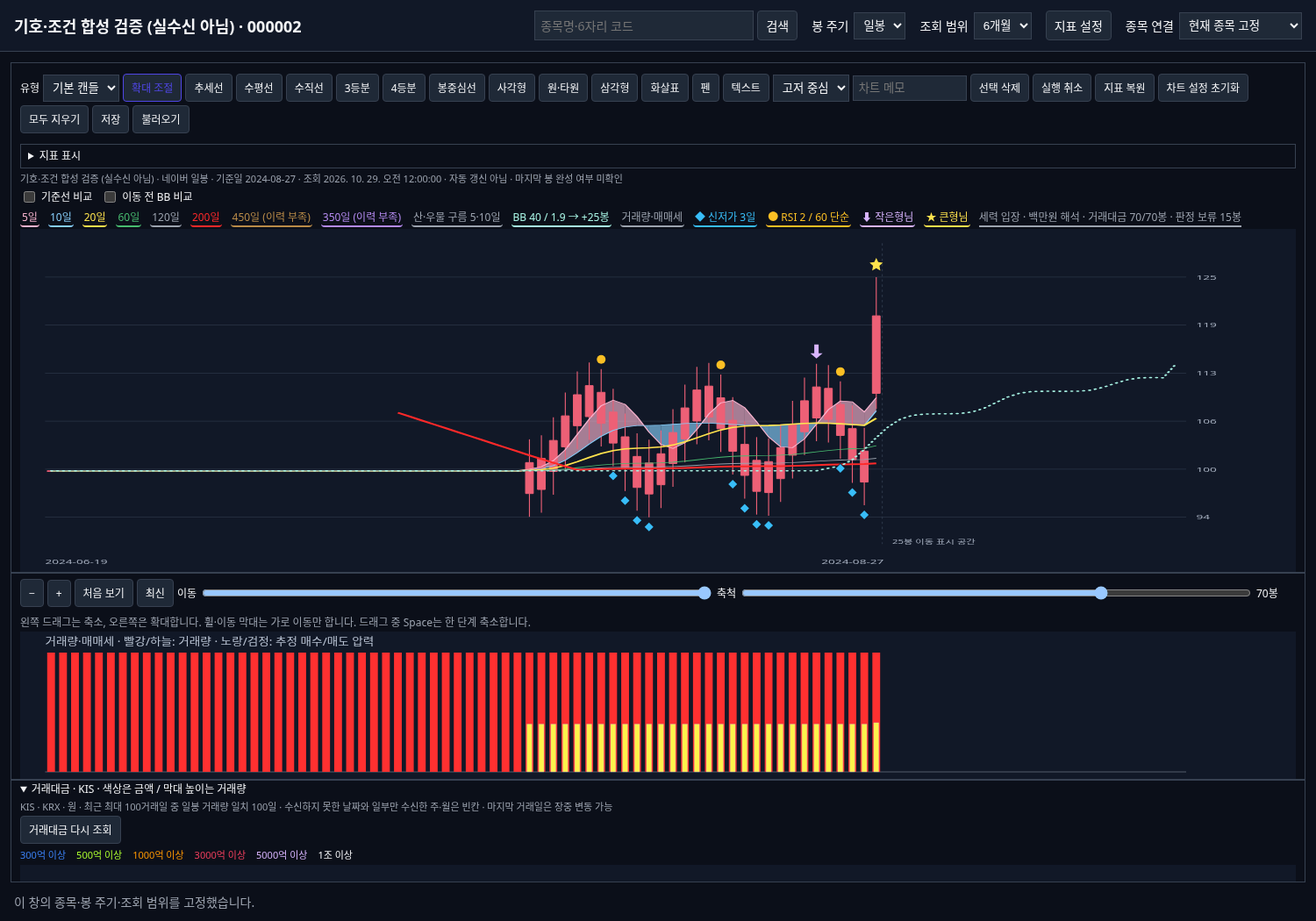
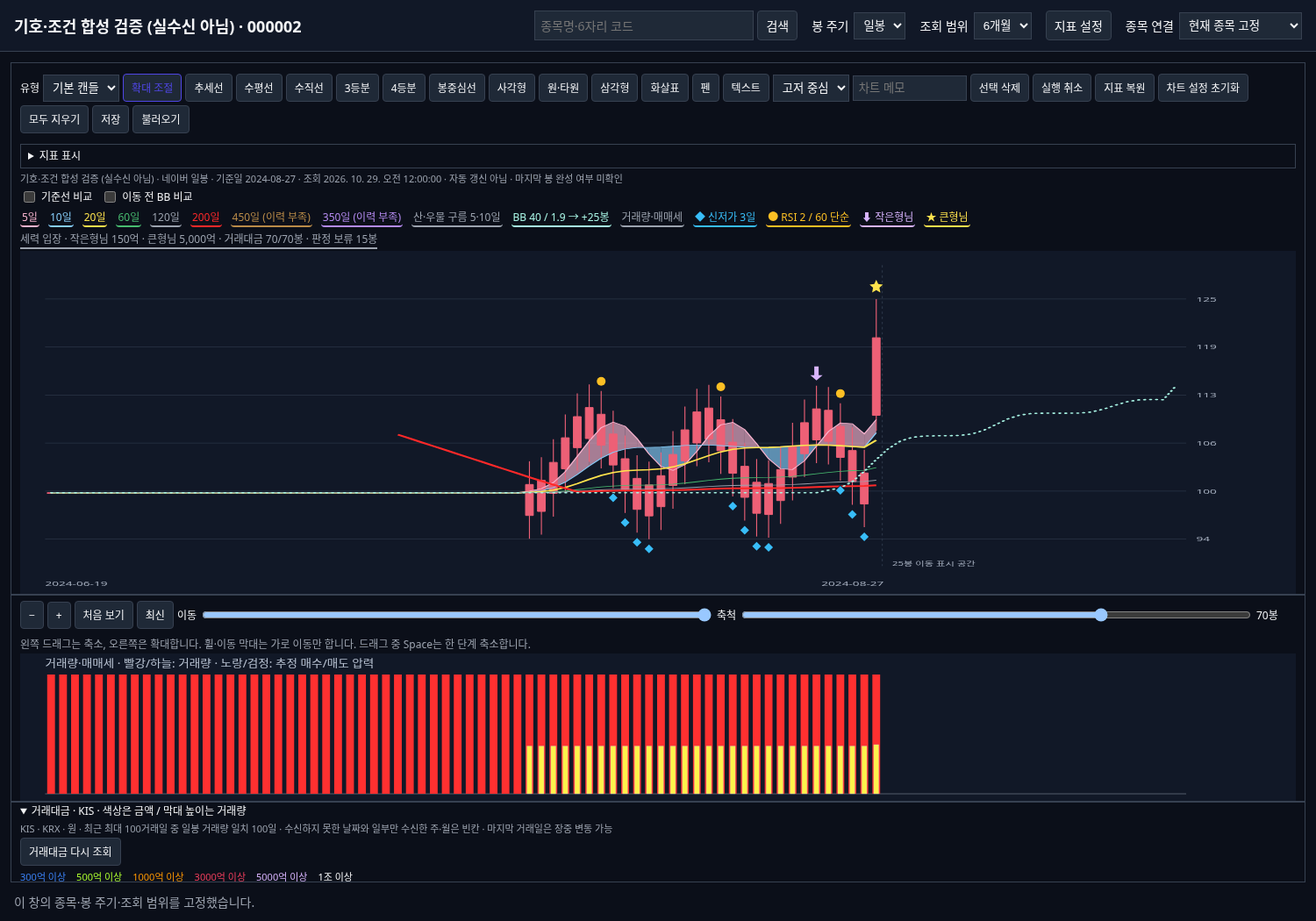
fix(chart): 형님 신호 거래대금 기준을 억원으로 확정

diff --git a/chart.html b/chart.html
@@ -1,4 +1,4 @@
 <!doctype html><html lang="ko"><head><meta charset="utf-8"><meta name="viewport" content="width=device-width,initial-scale=1"><title>상세 차트</title>
 <style>
 :root{color-scheme:dark;--sb-bg:#0b0f19;--sb-panel:#111827;--sb-surface:#1f2937;--sb-text-1:#f3f4f6;--sb-text-2:#9ca3af;--sb-border:#374151;--sb-accent:#4f46e5;--sb-warn:#f59e0b;--sb-overlay:rgba(0,0,0,.6)}*{box-sizing:border-box}body{margin:0;background:var(--sb-bg);color:var(--sb-text-1);font:14px system-ui,sans-serif;height:100vh;display:flex;flex-direction:column}header{display:flex;gap:16px;align-items:center;flex-wrap:wrap;padding:12px 16px;border-bottom:1px solid var(--sb-border);background:var(--sb-panel)}h1{font-size:18px;margin:0;margin-right:auto}label{display:flex;align-items:center;gap:6px}select{background:var(--sb-surface);color:inherit;border:1px solid var(--sb-border);padding:6px}#chartViewport{flex:1;min-height:0;overflow:auto;margin:12px;border:1px solid var(--sb-border)}.sb-chart-pending{height:100%;display:grid;place-content:center;text-align:center;color:var(--sb-text-2);gap:8px}#chartStatus{padding:0 16px 12px;color:var(--sb-text-2)}
-</style><link rel="stylesheet" href="src/chart/chart.css"></head><body class="sb-chart-window"><header><h1 id="chartName">상세 차트</h1><form id="chartStockSearchForm" class="sb-chart-search" role="search"><label class="sb-chart-search-label" for="chartStockSearch">종목 검색</label><div class="sb-chart-search-row"><input id="chartStockSearch" class="sb-input" type="search" maxlength="40" placeholder="종목명·6자리 코드" role="combobox" aria-autocomplete="list" aria-expanded="false" aria-controls="chartStockResults" autocomplete="off"><button type="submit" class="sb-btn">검색</button></div><div id="chartStockSearchPanel" class="sb-chart-search-panel" hidden><p id="chartStockSearchStatus" role="status"></p><div id="chartStockResults" role="listbox" aria-label="종목 검색 결과"></div></div></form><label>봉 주기 <select id="chartCycle"><option value="day">일봉</option><option value="week">주봉</option><option value="month">월봉</option><option value="year">연봉</option></select></label><label>조회 범위 <select id="chartPeriod"><option value="1m">1개월</option><option value="3m">3개월</option><option value="6m">6개월</option><option value="1y">1년</option><option value="all">전체</option></select></label><button type="button" class="sb-btn" id="chartIndicatorSettings">지표 설정</button><label>종목 연결 <select id="chartFollow"><option value="follow">선택 종목 따라가기</option><option value="pin">현재 종목 고정</option></select></label></header><main id="chartViewport" data-chart-host><div class="sb-chart-pending"><strong>차트 모듈 연결 대기</strong><span>종목·기간은 유지되며 차트 원본 연결 후 표시됩니다.</span></div></main><div id="chartStatus" role="status"></div><dialog id="chartSettings" class="sb-modal sb-modal--s"><form method="dialog" id="chartSettingsForm"><div class="sb-modal__head"><strong>지표 조건</strong><button type="button" class="sb-btn" id="chartSettingsClose">닫기</button></div><div class="sb-modal__body"><label>종가 단순 이평 기간<input class="sb-input" id="chartMAPeriods" placeholder="예: 4,12,24,46,73"></label><p>쉼표로 구분합니다. 단위는 선택한 봉 주기입니다.</p><label id="chartCloudFields">산·우물 구름 기간<input class="sb-input" id="chartCloudPeriods" placeholder="예: 1,4"></label><fieldset id="chartBBFields"><legend>BB 상한선</legend><label>기간<input id="chartBBPeriod" class="sb-input" type="number" min="2" max="500"></label><label>배수<input id="chartBBMultiplier" class="sb-input" type="number" step="0.1" min="0" max="10"></label><label>이동 봉 수<input id="chartBBShift" class="sb-input" type="number" min="0" max="120"></label></fieldset><fieldset id="chartOBVFields"><legend>OBV 시그널</legend><label>기간<input id="chartOBVPeriod" class="sb-input" type="number" min="1" max="500"></label><label>평균 방식<select id="chartOBVMethod" class="sb-input"><option value="sma">단순</option><option value="ema">지수</option></select></label></fieldset><fieldset id="chartSignalFields"><legend>봉 신호</legend><p>RSI는 기간·하단값을 입력하고 계산방식을 선택하면 표시합니다.</p><label id="chartNewLowFields">신저가 기간<input id="chartNewLowPeriod" class="sb-input" type="number" min="1" max="1200" placeholder="미설정"></label><label>RSI 기간<input id="chartRSIPeriod" class="sb-input" type="number" min="1" max="500" placeholder="미설정"></label><label>RSI 하단값<input id="chartRSILevel" class="sb-input" type="number" min="0" max="100" step="any" placeholder="미설정"></label><label>RSI 계산방식<select id="chartRSIMethod" class="sb-input"><option value="">선택</option><option value="simple">단순</option><option value="wilder">Wilder</option></select></label><p>RSI는 하단값 아래로 내려간 봉에만 신호를 표시합니다. 등락이 모두 0이면 RSI 50을 사용합니다.</p></fieldset><fieldset id="chartEntryFields"><legend>세력 입장 · 일봉</legend><p>공통 가격 조건: 일목 9·26·52의 25봉 전 값, 종가 226일선, BB 20/2. 양봉이며 전일 종가 또는 당일 시가보다 2.5% 이상 상승해야 합니다.</p><p>작은형님: 거래량 2,000주·amount 150 이상. 큰형님: 70,000주·amount 5,000 이상이며, 3·2·1봉 전 226일선이 차례로 낮아져야 합니다. 큰형님은 최소 229봉이 필요합니다.</p><label>수식의 amount 단위<select id="chartEntryAmountUnit" class="sb-input"><option value="">확인 필요 · 규모 판정 보류</option><option value="million">백만원 · 작은형님 1.5억 / 큰형님 50억</option><option value="eok">억원 · 작은형님 150억 / 큰형님 5,000억</option></select></label><p>원본 단위는 미확인입니다. 선택한 해석으로 계산하며, 실제 거래대금이 없는 날짜는 판정하지 않습니다. 두 신호가 겹치면 큰형님만 표시합니다. 이 조건으로 실제 매매 주체가 확인되지는 않습니다.</p></fieldset><p id="chartSettingsError" role="status"></p></div><div class="sb-modal__foot"><button type="button" class="sb-btn" id="chartSettingsReset">주기 기본값</button><button type="submit" class="sb-btn">적용</button></div></form></dialog><script src="src/chart/series.js"></script><script src="src/chart/renderer.js"></script><script src="src/chart/interaction.js"></script><script src="src/chart/resize.js"></script><script src="src/chart/client.js"></script><script src="src/chart/detail.js"></script></body></html>
+</style><link rel="stylesheet" href="src/chart/chart.css"></head><body class="sb-chart-window"><header><h1 id="chartName">상세 차트</h1><form id="chartStockSearchForm" class="sb-chart-search" role="search"><label class="sb-chart-search-label" for="chartStockSearch">종목 검색</label><div class="sb-chart-search-row"><input id="chartStockSearch" class="sb-input" type="search" maxlength="40" placeholder="종목명·6자리 코드" role="combobox" aria-autocomplete="list" aria-expanded="false" aria-controls="chartStockResults" autocomplete="off"><button type="submit" class="sb-btn">검색</button></div><div id="chartStockSearchPanel" class="sb-chart-search-panel" hidden><p id="chartStockSearchStatus" role="status"></p><div id="chartStockResults" role="listbox" aria-label="종목 검색 결과"></div></div></form><label>봉 주기 <select id="chartCycle"><option value="day">일봉</option><option value="week">주봉</option><option value="month">월봉</option><option value="year">연봉</option></select></label><label>조회 범위 <select id="chartPeriod"><option value="1m">1개월</option><option value="3m">3개월</option><option value="6m">6개월</option><option value="1y">1년</option><option value="all">전체</option></select></label><button type="button" class="sb-btn" id="chartIndicatorSettings">지표 설정</button><label>종목 연결 <select id="chartFollow"><option value="follow">선택 종목 따라가기</option><option value="pin">현재 종목 고정</option></select></label></header><main id="chartViewport" data-chart-host><div class="sb-chart-pending"><strong>차트 모듈 연결 대기</strong><span>종목·기간은 유지되며 차트 원본 연결 후 표시됩니다.</span></div></main><div id="chartStatus" role="status"></div><dialog id="chartSettings" class="sb-modal sb-modal--s"><form method="dialog" id="chartSettingsForm"><div class="sb-modal__head"><strong>지표 조건</strong><button type="button" class="sb-btn" id="chartSettingsClose">닫기</button></div><div class="sb-modal__body"><label>종가 단순 이평 기간<input class="sb-input" id="chartMAPeriods" placeholder="예: 4,12,24,46,73"></label><p>쉼표로 구분합니다. 단위는 선택한 봉 주기입니다.</p><label id="chartCloudFields">산·우물 구름 기간<input class="sb-input" id="chartCloudPeriods" placeholder="예: 1,4"></label><fieldset id="chartBBFields"><legend>BB 상한선</legend><label>기간<input id="chartBBPeriod" class="sb-input" type="number" min="2" max="500"></label><label>배수<input id="chartBBMultiplier" class="sb-input" type="number" step="0.1" min="0" max="10"></label><label>이동 봉 수<input id="chartBBShift" class="sb-input" type="number" min="0" max="120"></label></fieldset><fieldset id="chartOBVFields"><legend>OBV 시그널</legend><label>기간<input id="chartOBVPeriod" class="sb-input" type="number" min="1" max="500"></label><label>평균 방식<select id="chartOBVMethod" class="sb-input"><option value="sma">단순</option><option value="ema">지수</option></select></label></fieldset><fieldset id="chartSignalFields"><legend>봉 신호</legend><p>RSI는 기간·하단값을 입력하고 계산방식을 선택하면 표시합니다.</p><label id="chartNewLowFields">신저가 기간<input id="chartNewLowPeriod" class="sb-input" type="number" min="1" max="1200" placeholder="미설정"></label><label>RSI 기간<input id="chartRSIPeriod" class="sb-input" type="number" min="1" max="500" placeholder="미설정"></label><label>RSI 하단값<input id="chartRSILevel" class="sb-input" type="number" min="0" max="100" step="any" placeholder="미설정"></label><label>RSI 계산방식<select id="chartRSIMethod" class="sb-input"><option value="">선택</option><option value="simple">단순</option><option value="wilder">Wilder</option></select></label><p>RSI는 하단값 아래로 내려간 봉에만 신호를 표시합니다. 등락이 모두 0이면 RSI 50을 사용합니다.</p></fieldset><fieldset id="chartEntryFields"><legend>세력 입장 · 일봉</legend><p>공통 가격 조건: 일목 9·26·52의 25봉 전 값, 종가 226일선, BB 20/2. 양봉이며 전일 종가 또는 당일 시가보다 2.5% 이상 상승해야 합니다.</p><p>작은형님: 거래량 2,000주·amount 150 이상. 큰형님: 70,000주·amount 5,000 이상이며, 3·2·1봉 전 226일선이 차례로 낮아져야 합니다. 큰형님은 최소 229봉이 필요합니다.</p><p>거래대금 기준은 작은형님 <strong>150억원</strong>, 큰형님 <strong>5,000억원</strong>입니다. 실제 거래대금이 없는 날짜는 판정하지 않습니다. 두 신호가 겹치면 큰형님만 표시합니다. 이 조건으로 실제 매매 주체가 확인되지는 않습니다.</p></fieldset><p id="chartSettingsError" role="status"></p></div><div class="sb-modal__foot"><button type="button" class="sb-btn" id="chartSettingsReset">주기 기본값</button><button type="submit" class="sb-btn">적용</button></div></form></dialog><script src="src/chart/series.js"></script><script src="src/chart/renderer.js"></script><script src="src/chart/interaction.js"></script><script src="src/chart/resize.js"></script><script src="src/chart/client.js"></script><script src="src/chart/detail.js"></script></body></html>

diff --git a/src/chart/detail.js b/src/chart/detail.js
@@ -1,6 +1,6 @@
 (() => {
  const api=window.stockBookChart,host=document.getElementById('chartViewport'),cycle=document.getElementById('chartCycle'),range=document.getElementById('chartPeriod'),follow=document.getElementById('chartFollow'),status=document.getElementById('chartStatus'),dialog=document.getElementById('chartSettings');
- if([host,cycle,range,follow,status,dialog,...['chartName','chartMAPeriods','chartCloudFields','chartCloudPeriods','chartBBFields','chartBBPeriod','chartBBMultiplier','chartBBShift','chartOBVFields','chartOBVPeriod','chartOBVMethod','chartSignalFields','chartNewLowFields','chartNewLowPeriod','chartRSIPeriod','chartRSILevel','chartRSIMethod','chartEntryFields','chartEntryAmountUnit','chartSettingsError','chartIndicatorSettings','chartSettingsClose','chartSettingsReset','chartSettingsForm'].map(id=>document.getElementById(id))].some(element=>!element))return;
+ if([host,cycle,range,follow,status,dialog,...['chartName','chartMAPeriods','chartCloudFields','chartCloudPeriods','chartBBFields','chartBBPeriod','chartBBMultiplier','chartBBShift','chartOBVFields','chartOBVPeriod','chartOBVMethod','chartSignalFields','chartNewLowFields','chartNewLowPeriod','chartRSIPeriod','chartRSILevel','chartRSIMethod','chartEntryFields','chartSettingsError','chartIndicatorSettings','chartSettingsClose','chartSettingsReset','chartSettingsForm'].map(id=>document.getElementById(id))].some(element=>!element))return;
  let current=null,sequence=0,settings={};try{settings=JSON.parse(localStorage.getItem('stockbook:chart:settings:v1'))||{};}catch{}
  if(typeof settings!=='object'||settings===null||Array.isArray(settings))settings={};
  async function context(value){
@@ -53,13 +53,13 @@
   document.addEventListener('pointerdown',event=>{if(!searchForm.contains(event.target))expanded(false);});
  }
  const field=id=>document.getElementById(id),optionalNumber=id=>field(id).value.trim()===''?null:Number(field(id).value),numbers=value=>value.split(/[,\s]+/).filter(Boolean).map(Number);
- function fill(values){field('chartMAPeriods').value=values.periods.join(',');field('chartCloudFields').hidden=!values.cloud;field('chartCloudPeriods').value=values.cloud?.join(',')||'';field('chartBBFields').hidden=current.barCycle!=='day';field('chartBBPeriod').value=values.bb.period;field('chartBBMultiplier').value=values.bb.multiplier;field('chartBBShift').value=values.bb.shift;field('chartOBVFields').hidden=current.barCycle!=='week';field('chartOBVPeriod').value=values.obv.period;field('chartOBVMethod').value=values.obv.method;field('chartSignalFields').hidden=!['day','week'].includes(current.barCycle);field('chartNewLowFields').hidden=current.barCycle!=='day';field('chartNewLowPeriod').value=values.signals.newLowPeriod??'';field('chartRSIPeriod').value=values.signals.rsiPeriod??'';field('chartRSILevel').value=values.signals.rsiLevel??'';field('chartRSIMethod').value=values.signals.rsiMethod??'';field('chartEntryFields').hidden=current.barCycle!=='day';field('chartEntryAmountUnit').value=values.signals.entryAmountUnit??'';field('chartSettingsError').textContent='';}
+ function fill(values){field('chartMAPeriods').value=values.periods.join(',');field('chartCloudFields').hidden=!values.cloud;field('chartCloudPeriods').value=values.cloud?.join(',')||'';field('chartBBFields').hidden=current.barCycle!=='day';field('chartBBPeriod').value=values.bb.period;field('chartBBMultiplier').value=values.bb.multiplier;field('chartBBShift').value=values.bb.shift;field('chartOBVFields').hidden=current.barCycle!=='week';field('chartOBVPeriod').value=values.obv.period;field('chartOBVMethod').value=values.obv.method;field('chartSignalFields').hidden=!['day','week'].includes(current.barCycle);field('chartNewLowFields').hidden=current.barCycle!=='day';field('chartNewLowPeriod').value=values.signals.newLowPeriod??'';field('chartRSIPeriod').value=values.signals.rsiPeriod??'';field('chartRSILevel').value=values.signals.rsiLevel??'';field('chartRSIMethod').value=values.signals.rsiMethod??'';field('chartEntryFields').hidden=current.barCycle!=='day';field('chartSettingsError').textContent='';}
  field('chartIndicatorSettings').addEventListener('click',()=>{if(!current)return;fill(window.StockBookChartSeries.indicatorSettings(current.barCycle,settings[current.barCycle]));dialog.showModal();});
  field('chartSettingsClose').addEventListener('click',()=>dialog.close());field('chartSettingsReset').addEventListener('click',()=>fill(window.StockBookChartSeries.indicatorSettings(current.barCycle)));
  field('chartSettingsForm').addEventListener('submit',event=>{
   event.preventDefault();if(!current)return;
   try{
-   const value=window.StockBookChartSeries.indicatorSettings(current.barCycle,{periods:numbers(field('chartMAPeriods').value),cloud:current.barCycle==='day'||current.barCycle==='week'?numbers(field('chartCloudPeriods').value):null,bb:{period:Number(field('chartBBPeriod').value),multiplier:Number(field('chartBBMultiplier').value),shift:Number(field('chartBBShift').value)},obv:{period:Number(field('chartOBVPeriod').value),method:field('chartOBVMethod').value},signals:{newLowPeriod:optionalNumber('chartNewLowPeriod'),rsiPeriod:optionalNumber('chartRSIPeriod'),rsiLevel:optionalNumber('chartRSILevel'),rsiMethod:field('chartRSIMethod').value||null,entryAmountUnit:field('chartEntryAmountUnit').value||null}});
+   const value=window.StockBookChartSeries.indicatorSettings(current.barCycle,{periods:numbers(field('chartMAPeriods').value),cloud:current.barCycle==='day'||current.barCycle==='week'?numbers(field('chartCloudPeriods').value):null,bb:{period:Number(field('chartBBPeriod').value),multiplier:Number(field('chartBBMultiplier').value),shift:Number(field('chartBBShift').value)},obv:{period:Number(field('chartOBVPeriod').value),method:field('chartOBVMethod').value},signals:{newLowPeriod:optionalNumber('chartNewLowPeriod'),rsiPeriod:optionalNumber('chartRSIPeriod'),rsiLevel:optionalNumber('chartRSILevel'),rsiMethod:field('chartRSIMethod').value||null}});
    window.StockBookCharts.controller(host)?.setSettings(value);settings[current.barCycle]=value;
    try{localStorage.setItem('stockbook:chart:settings:v1',JSON.stringify(settings));}catch{}dialog.close();
   }catch(error){field('chartSettingsError').textContent=error.message;}

diff --git a/src/chart/renderer.js b/src/chart/renderer.js
@@ -101,11 +101,11 @@ function render(all){
 }
 function chartSignals(){
  window.signalEvidence=null;signalRows=null;if(!config.panels.signals||(mode==='compact'&&barCycle!=='day'))return null;
- const key=mode+':'+JSON.stringify(signalSettings)+':'+entryAmountVersion;if(!signalCache.has(key)){const lows=mode==='compact'||signalSettings.newLowPeriod===null?all.map(()=>false):series.newLowSignals(all,signalSettings.newLowPeriod),rsi=mode==='compact'||signalSettings.rsiMethod===null?all.map(()=>null):series.rsiSeries(all,signalSettings.rsiPeriod,signalSettings.rsiMethod),oversold=mode==='compact'||signalSettings.rsiMethod===null?all.map(()=>false):series.crossdown(rsi,signalSettings.rsiLevel);const entry=barCycle==='day'?(entryCache??=series.entryTierSeries(all,tradingAmounts,signalSettings.entryAmountUnit==='million'?1000000:signalSettings.entryAmountUnit==='eok'?100000000:null)):null;signalCache.set(key,lows.map((newLow,i)=>({newLow,rsi:rsi[i],oversold:oversold[i],entrySmall:entry?.[i]?.small??null,entryBig:entry?.[i]?.big??null})));while(signalCache.size>8)signalCache.delete(signalCache.keys().next().value);}
+ const key=mode+':'+JSON.stringify(signalSettings)+':'+entryAmountVersion;if(!signalCache.has(key)){const lows=mode==='compact'||signalSettings.newLowPeriod===null?all.map(()=>false):series.newLowSignals(all,signalSettings.newLowPeriod),rsi=mode==='compact'||signalSettings.rsiMethod===null?all.map(()=>null):series.rsiSeries(all,signalSettings.rsiPeriod,signalSettings.rsiMethod),oversold=mode==='compact'||signalSettings.rsiMethod===null?all.map(()=>false):series.crossdown(rsi,signalSettings.rsiLevel);const entry=barCycle==='day'?(entryCache??=series.entryTierSeries(all,tradingAmounts)):null;signalCache.set(key,lows.map((newLow,i)=>({newLow,rsi:rsi[i],oversold:oversold[i],entrySmall:entry?.[i]?.small??null,entryBig:entry?.[i]?.big??null})));while(signalCache.size>8)signalCache.delete(signalCache.keys().next().value);}
  signalRows=signalCache.get(key).slice(offset,view.end);window.signalEvidence={...signalSettings,newLowDates:signalRows.flatMap((r,i)=>r.newLow?[all[offset+i].date]:[]),oversoldDates:signalRows.flatMap((r,i)=>r.oversold?[all[offset+i].date]:[]),entrySmallDates:signalRows.flatMap((r,i)=>r.entrySmall===true?[all[offset+i].date]:[]),entryBigDates:signalRows.flatMap((r,i)=>r.entryBig===true?[all[offset+i].date]:[]),entryAmountReceived:tradingAmounts.slice(offset,view.end).filter(v=>v!==null).length,entryWaiting:signalRows.filter(r=>r.entrySmall===null||r.entryBig===null).length};return signalRows;
 }
 function entryLegend(){
- if(barCycle!=='day')return '';const state=signalSettings.entryAmountUnit===null?'amount 단위 선택 필요':(signalSettings.entryAmountUnit==='million'?'백만원 해석':'억원 해석');
+ if(barCycle!=='day')return '';const state='작은형님 150억 · 큰형님 5,000억';
  if(mode==='compact')document.getElementById('notice').textContent+=` · 세력 입장: ${state} · 거래대금 ${window.signalEvidence.entryAmountReceived}/${visibleCount}봉`;
  return indicatorLabel('entry-small','⬇ 작은형님','var(--sb-chart-signal-entry-small)')+indicatorLabel('entry-big','★ 큰형님','var(--sb-chart-signal-entry-big)')+`<span class="sb-chart-entry-status">세력 입장 · ${state} · 거래대금 ${window.signalEvidence.entryAmountReceived}/${visibleCount}봉 · 판정 보류 ${window.signalEvidence.entryWaiting}봉</span>`;
 }
@@ -214,7 +214,6 @@ function renderInvestorPanel(){
  setView:(count,end=view.end)=>{const n=Math.max(1,Math.min(all.length,Math.round(count))),last=Math.max(n,Math.min(all.length,Math.round(end)));applyView(n,all.length>n?(last-n)/(all.length-n):view.position);},
  zoomTo:count=>applyView(count,view.position),scrollTo:position=>applyView(view.count,position),scrollBy:bars=>{const max=all.length-view.count;if(max)applyView(view.count,Math.max(0,Math.min(max,view.end-view.count+bars))/max);},resetView:()=>applyView(all.length-initialOffset,1),
  resetSettings:()=>{entryCache=null;investorDisplay='daily';signalSettings=series.indicatorSettings(barCycle).signals;obvSettings={period:9,method:'sma'};document.getElementById('obvPanel').open=false;const defaults=series.cycleConfig(barCycle);periods=mode==='compact'&&barCycle==='day'?[5,10,20,60]:defaults.periods;config.cloud=defaults.cloud;bbSettings={period:40,multiplier:1.9,shift:25};hiddenIndicators.clear();chartType=config.defaultType;view.count=all.length-initialOffset;view.end=all.length;view.position=1;for(const id of ['refs','original'])document.getElementById(id).checked=false;draw();},
- setEntryAmountUnit:unit=>{const next=series.indicatorSettings(barCycle,{signals:{...signalSettings,entryAmountUnit:unit}}).signals;if(next.entryAmountUnit!==signalSettings.entryAmountUnit){signalSettings=next;entryCache=null;draw();}},
  setSettings:values=>{const next=series.indicatorSettings(barCycle,values);periods=next.periods;config.cloud=next.cloud;bbSettings=next.bb;obvSettings=next.obv;signalSettings=next.signals;entryCache=null;futureCount=barCycle==='day'?bbSettings.shift:0;draw();}};
 }
 root.StockBookChartRenderer=Object.freeze({mount});

diff --git a/src/chart/series.js b/src/chart/series.js
@@ -61,7 +61,7 @@
   const offset=bars.findIndex(bar=>bar.date>=cutoff);return offset<0?Math.max(0,bars.length-1):offset;
  }
  function indicatorSettings(cycle,input={}){
-  const defaults=cycleConfig(cycle),periods=input.periods??defaults.periods,cloud=defaults.cloud?(input.cloud??defaults.cloud):null,bb={period:40,multiplier:1.9,shift:25,...input.bb},obv={period:9,method:'sma',...(cycle==='week'?input.obv:{})},signals=['day','week'].includes(cycle)?{newLowPeriod:cycle==='day'?40:null,rsiPeriod:14,rsiLevel:30,rsiMethod:null,entryAmountUnit:null,...input.signals,...(cycle==='week'?{newLowPeriod:null,entryAmountUnit:null}:{})}:{newLowPeriod:null,rsiPeriod:null,rsiLevel:null,rsiMethod:null,entryAmountUnit:null};
+  const defaults=cycleConfig(cycle),periods=input.periods??defaults.periods,cloud=defaults.cloud?(input.cloud??defaults.cloud):null,bb={period:40,multiplier:1.9,shift:25,...input.bb},obv={period:9,method:'sma',...(cycle==='week'?input.obv:{})},signals=['day','week'].includes(cycle)?{newLowPeriod:cycle==='day'?40:null,rsiPeriod:14,rsiLevel:30,rsiMethod:null,entryAmountUnit:null,...input.signals,...(cycle==='week'?{newLowPeriod:null,entryAmountUnit:null}:{entryAmountUnit:'eok'})}:{newLowPeriod:null,rsiPeriod:null,rsiLevel:null,rsiMethod:null,entryAmountUnit:null};
   if(!Array.isArray(periods)||periods.length<1||periods.length>8||periods.some(n=>!Number.isInteger(n)||n<1||n>1200))throw Error('이평 기간은 1~1200, 최대 8개입니다.');
   if(cloud&&(!Array.isArray(cloud)||cloud.length!==2||cloud.some(n=>!Number.isInteger(n)||n<1||n>1200)))throw Error('구름 기간 두 개를 확인하세요.');
   if(!Number.isInteger(bb.period)||bb.period<2||bb.period>500||!Number.isFinite(bb.multiplier)||bb.multiplier<0||bb.multiplier>10||!Number.isInteger(bb.shift)||bb.shift<0||bb.shift>120)throw Error('BB 기간·배수·이동값을 확인하세요.');
@@ -69,7 +69,6 @@
   if(signals.newLowPeriod!==null&&(!Number.isInteger(signals.newLowPeriod)||signals.newLowPeriod<1||signals.newLowPeriod>1200))throw Error('신저가 기간은 1~1200봉입니다. 비우면 표시하지 않습니다.');
   const rsi=[signals.rsiPeriod,signals.rsiLevel,signals.rsiMethod];
   if(rsi.some(value=>value!==null)&&(!Number.isInteger(signals.rsiPeriod)||signals.rsiPeriod<1||signals.rsiPeriod>500||!Number.isFinite(signals.rsiLevel)||signals.rsiLevel<0||signals.rsiLevel>100||(signals.rsiMethod!==null&&!['simple','wilder'].includes(signals.rsiMethod))))throw Error('RSI 기간(1~500)과 하단값(0~100)을 함께 입력하고 계산방식을 확인하세요.');
-  if(signals.entryAmountUnit!==null&&!['million','eok'].includes(signals.entryAmountUnit))throw Error('세력 입장 거래대금 단위를 확인하세요.');
   return {periods:[...periods],cloud:cloud?[...cloud]:null,bb,obv,signals};
  }
  // Zero at the first received close: no volume can be signed without its prior close.
@@ -134,16 +133,17 @@
    return {signal:(cloudCross||cloudAbove)&&(maCross||aboveMA)&&(bandCross||openAboveBand),lineA,lineB,ma226:ma[i],bbUpper:upper[i],cloudCross,cloudAbove,maCross,aboveMA,bandCross,openAboveBand};
   });
  }
- // The amount scale is explicit: a formula amount is not a volume-derived estimate.
- function entryTierSeries(candles,amounts,amountUnitWon){
-  if((amountUnitWon!==null&&(!Number.isSafeInteger(amountUnitWon)||amountUnitWon<=0||!Number.isSafeInteger(5000*amountUnitWon)))||!Array.isArray(amounts)||amounts.length!==candles.length||amounts.some(v=>v!==null&&(!Number.isSafeInteger(v)||v<0)))throw Error('세력 입장 거래대금 단위/자료 오류');
+ // User confirmed amount is in hundred-million KRW; provider amounts are exact won.
+ function entryTierSeries(candles,amounts){
+  const amountUnitWon=100000000;
+  if(!Array.isArray(amounts)||amounts.length!==candles.length||amounts.some(v=>v!==null&&(!Number.isSafeInteger(v)||v<0)))throw Error('세력 입장 거래대금 자료 오류');
   const base=entrySignalSeries(candles),bars=aggregate(candles,'day'),byDate=new Map(candles.map((c,i)=>[c.date,amounts[i]]));
   return base.map((r,i)=>{
    const c=bars[i],previous=bars[i-1],rise=!!previous&&(c.close>=previous.close*1.025||c.close>=c.open*1.025),bullish=c.open<c.close,amount=byDate.get(c.date);
    const falling226=i>=228?base[i-3].ma226>base[i-2].ma226&&base[i-2].ma226>base[i-1].ma226:null;
    function tier(volume,minimum,trend){
     if(r.signal===false||c.volume<volume||!bullish||!rise||trend===false)return false;
-    if(r.signal===null||trend===null||amount===null||amountUnitWon===null)return null;
+    if(r.signal===null||trend===null||amount===null)return null;
     return amount>=minimum*amountUnitWon;
    }
    return {...r,amount,falling226,small:tier(2000,150,true),big:tier(70000,5000,falling226)};

diff --git a/src/chart/interaction.js b/src/chart/interaction.js
@@ -6,8 +6,6 @@
   const key=controller.getModel().stockCode+':'+controller.getModel().config.label,storageKey='stockbook:chart:drawings:v1:'+key;
   const typeStorageKey='stockbook:chart:type:v2:'+controller.getModel().config.label;const visibilityKey='stockbook:chart:visibility:v1:'+key;let hidden=indicatorMemory.get(key)||[],lastVisibility='';
   try{const saved=JSON.parse(root.localStorage.getItem(visibilityKey));if(Array.isArray(saved)&&saved.length<=32&&saved.every(id=>typeof id==='string'&&/^(ma:\d+|bb|cloud|pressure|money|investors|profile|obv|new-low|oversold|volume|entry|entry-small|entry-big)$/.test(id)))hidden=saved;const type=root.localStorage.getItem(typeStorageKey);if(root.StockBookChartSeries.chartTypes.includes(type))controller.setType(type);}catch{}
-  function syncEntryUnit(){if(!compact||controller.getModel().config.label!=='일봉')return;try{const saved=JSON.parse(root.localStorage.getItem('stockbook:chart:settings:v1')),unit=saved?.day?.signals?.entryAmountUnit??null;if(unit===null||['million','eok'].includes(unit))controller.setEntryAmountUnit(unit);}catch{}}
-  syncEntryUnit();root.addEventListener('storage',event=>{if(event.key==='stockbook:chart:settings:v1')syncEntryUnit();},{signal});
   if(tools)controller.setHiddenIndicators(hidden);svg.setAttribute('tabindex','0');
   let drawings=memory.get(key)||[],mode='zoom',selected=null,selectedIndicator=null,pending=null,gesture=null,stroke=null,nextId=Math.max(0,...drawings.map(d=>d.id))+1,history=[],preview=null,touches=new Map(),pinch=null,wheelRemainder=0;
   const ns='http://www.w3.org/2000/svg',node=(tag,attrs={},text)=>{const el=doc.createElementNS(ns,tag);for(const [k,v]of Object.entries(attrs))el.setAttribute(k,String(v));if(text!==undefined)el.textContent=text;return el;};
@@ -86,7 +84,7 @@
    if(m.config.label!=='일봉')return [];const r=m.signals?.[i],hidden=controller.getHiddenIndicators();
    if(r?.entryBig===true&&!hidden.includes('entry-big'))return ['큰형님 · 세력 입장 전체 조건 충족'];
    if(r?.entrySmall===true&&!hidden.includes('entry-small'))return ['작은형님 · 세력 입장 전체 조건 충족'];
-   if(r&&(r.entrySmall===null||r.entryBig===null))return ['세력 입장 판정 보류 · amount 단위·거래대금·이력 확인 필요'];return [];
+   if(r&&(r.entrySmall===null||r.entryBig===null))return ['세력 입장 판정 보류 · 거래대금·이력 확인 필요'];return [];
   }
   function describeBar(row,m){
    if(!row)return '표시 공간 · 가격 자료 없음';

diff --git a/docs/design/chart-entry-tiers/README.md b/docs/design/chart-entry-tiers/README.md
@@ -18,20 +18,15 @@
 
 기울기는 현재값을 포함하지 않은 과거 3·2·1봉 전의 단순 226일선 비교다. 거래량은 해당 일봉 값이다. 원식에 없는 첫 봉만 표시·거래 주체 추정·그 밖의 조건은 추가하지 않는다.
 
-## amount 단위는 미확인
+## amount는 억원 단위로 확정
 
-사용자는 원본 단위를 모른다고 응답했다. 지표 이름만으로 단위를 추론하지 않는다. 최초값은 **확인 필요 · 규모 판정 보류**이며 새 신호를 표시하지 않는다. `지표 설정 → 세력 입장 → 수식의 amount 단위`에서 선택한 해석에 한해서 계산한다.
+사용자가 `amount`의 단위를 **억원**으로 확정했다. 실제 공급자 거래대금은 원 단위이므로 작은형님은 15,000,000,000원(150억원), 큰형님은 500,000,000,000원(5,000억원) 이상인지 비교한다. 단위 선택과 단위 미확인 판정 보류를 제거했다. 설정과 범례에 두 금액을 그대로 표시한다.
 
-| 선택한 해석 | 작은형님 150 | 큰형님 5,000 |
-| --- | --- | --- |
-| 백만원 | 1억 5천만원 | 50억원 |
-| 억원 | 150억원 | 5,000억원 |
-
-선택은 원본 단위 확인이나 HTS 일치 증거가 아니다. 기준값 150·5,000은 사용자 식 그대로이며 실수신 원 금액과 비교할 때만 환산한다. 설정은 기존 주기별 저장에 포함하며 주기 초기화 시 미선택으로 복귀한다. 축소 일봉은 같은 단위 설정을 읽고 다른 창의 저장 변경도 반영한다. 일·주·월·년 지표 분리는 유지한다.
+이전 검토 단계에서 저장된 백만원 해석이나 미선택 값도 현행 계산을 바꾸지 않는다. 초기화·종목 변경·축소 일봉 모두 같은 고정 단위를 사용한다. 공급자 자료의 전체 날짜·가격·거래대금과 HTS 일치 여부까지 확인됐다는 뜻은 아니다.
 
 ## 실제 금액 범위
 
-기존 KIS 일별 거래대금의 날짜와 가격 일봉 거래량이 정확히 맞는 값만 사용한다. 최근 최대 100거래일 한 번의 조회 범위를 확대하지 않는다. 미수신·실패·거래량 불일치 날짜는 판정 보류다. 종가×거래량이나 합성 금액을 운영 차트에 대입하지 않는다. 가격 차트는 부가 조회를 기다리지 않고 표시하며 단위·금액 수신 봉 수·판정 보류 수를 안내한다. 수급 fallback은 거래대금 대용이 아니다.
+기존 KIS 일별 거래대금의 날짜와 가격 일봉 거래량이 정확히 맞는 값만 사용한다. 최근 최대 100거래일 한 번의 조회 범위를 확대하지 않는다. 미수신·실패·거래량 불일치 날짜는 판정 보류다. 종가×거래량이나 합성 금액을 운영 차트에 대입하지 않는다. 가격 차트는 부가 조회를 기다리지 않고 표시하며 고정 금액 기준·금액 수신 봉 수·판정 보류 수를 안내한다. 수급 fallback은 거래대금 대용이 아니다.
 
 ## 표시
 
@@ -44,8 +39,8 @@
 
 ## 검증과 남은 확인
 
-`verify.cjs`와 [결과](result.json)는 운영 HTML에 **합성 OHLCV·합성 KIS 형식 금액·모의 IPC**를 제공한 화면 검사다. 백만원 해석은 테스트 입력이며 원본 단위 확인이 아니다. [다크](dark-wide.png) · [라이트](light-wide.png) · [좁은 창](dark-tablet.png). 인증된 실거래대금이나 Windows 실기 증거로 취급하지 않는다.
+`verify.cjs`와 [결과](result.json)는 운영 HTML에 **합성 OHLCV·합성 KIS 형식 금액·모의 IPC**를 제공한 화면 검사다. 억원 단위는 사용자 확인값이며, 화면의 금액 자체는 합성 테스트 입력이다. [다크](dark-wide.png) · [라이트](light-wide.png) · [좁은 창](dark-tablet.png). 인증된 실거래대금이나 Windows 실기 증거로 취급하지 않는다.
 
-전체 `npm test` 94개·정적 검사·기존 스모크를 통과했다. 자동 검사는 두 규모 경계·서로 다른 amount 환산·양봉·상승률 양쪽 분기·과거 226일선 하락·미수신 보류·미래 봉 배제·신호 중복 우선순위·삭제/복원·주기 분리·단위 저장과 축소 적용·가로세로 비율·테마 대비·가격 높이 변경을 확인한다. [전체 검사 로그](npm-test.txt)를 따른다.
+전체 `npm test` 94개·정적 검사·기존 스모크를 통과했다. 자동 검사는 두 규모 경계·억원의 원 단위 환산과 종전 백만원 금액의 제외·양봉·상승률 양쪽 분기·과거 226일선 하락·미수신 보류·미래 봉 배제·신호 중복 우선순위·삭제/복원·주기 분리·종전 단위 설정 무시와 축소 적용·가로세로 비율·테마 대비·가격 높이 변경을 확인한다. [전체 검사 로그](npm-test.txt)를 따른다.
 
-원본 amount 단위, 원본 HTS 전체 날짜·수치 대조, 이번 변경의 Windows Electron 실기와 새 NSIS 설치본 검사는 아직 확인하지 않았다. 월봉 피보나치·BinaryWaveMACD의 암호화 수식은 계속 보류한다. 병합·배포는 별도다.
+원본 HTS 전체 날짜·수치 대조, 이번 변경의 Windows Electron 실기와 새 NSIS 설치본 검사는 아직 확인하지 않았다. 월봉 피보나치·BinaryWaveMACD의 암호화 수식은 계속 보류한다. 병합·배포는 별도다.

diff --git a/docs/design/chart-entry-tiers/PR.md b/docs/design/chart-entry-tiers/PR.md
@@ -2,10 +2,10 @@ fix(chart): 세력 입장 규모 조건과 신호 가독성 보완
 
 가격 조건만으로 반복 표시하던 세력 입장에 사용자가 추가한 작은형님·큰형님 조건을 적용한다. 작은형님은 거래량 2,000주·amount 150, 큰형님은 70,000주·amount 5,000과 과거 3·2·1봉 전 226일선의 연속 하락 조건을 사용한다. 둘 다 양봉과 전일 종가 또는 당일 시가 대비 2.5% 상승이 필요하다.
 
-amount 원본 단위가 미확인이므로 기본 상태에서는 규모 판정을 보류한다. 설정에 백만원/억원별 환산 금액을 제시하고 선택한 해석으로 계산한다. 거래대금은 기존 KIS 조회에서 일자/거래량이 맞는 값만 사용한다. 미수신·불일치 날짜는 비워 두며 최근 최대 100거래일 조회 범위를 확대하지 않는다.
+사용자가 amount를 억원으로 확정해 작은형님은 150억원, 큰형님은 5,000억원 기준으로 고정한다. 이전 단위 선택값은 계산에 영향을 주지 않으며 단위 선택 UI와 미확인 안내를 제거한다. 거래대금은 기존 KIS 조회에서 일자/거래량이 맞는 값만 사용한다. 미수신·불일치 날짜는 비워 두며 최근 최대 100거래일 조회 범위를 확대하지 않는다.
 
 작은형님은 보라색 화살표, 큰형님은 금색 별로 표시하며 동시 충족 시 큰형님을 우선한다. 신저가 마름모·RSI 원과 색·모양을 구분하고 신호 크기를 CSS 픽셀로 유지해 가로세로 확대·높이 조절 시 납작해지지 않게 한다. 신호별 Del/숨김/실행 취소/복원·봉 정보·주기별 설정을 유지한다. 기존 공통 entry 숨김은 두 신호 숨김으로 읽는다.
 
-검증: 전체 npm test 94개·정적·스모크 통과와 합성 자료/모의 IPC를 이용한 운영 HTML의 경계값·미수신·단위 선택·두 신호 우선순위·날짜 정렬·확대/높이·밝고 어두운 배경 대비 검사. 원본 단위와 HTS 전체 수치 일치, 이번 변경의 Windows/NSIS 실기는 미확인이다. 합성 화면을 실수신 증거로 취급하지 않는다. main/preload/API/워크플로/버전/계좌·저장 구조 변경은 없다.
+검증: 전체 npm test 94개·정적·스모크 통과와 합성 자료/모의 IPC를 이용한 운영 HTML의 경계값·미수신·고정 금액 환산·두 신호 우선순위·날짜 정렬·확대/높이·밝고 어두운 배경 대비 검사. HTS 전체 수치 일치, 이번 변경의 Windows/NSIS 실기는 미확인이다. 합성 화면을 실수신 증거로 취급하지 않는다. main/preload/API/워크플로/버전/계좌·저장 구조 변경은 없다.
 
 검토 자료: docs/design/chart-entry-tiers/README.md

diff --git a/docs/UI-REVAMP-PLAN.md b/docs/UI-REVAMP-PLAN.md
@@ -211,6 +211,6 @@ OBV 구간은 `--sb-chart-obv`(기존 기관 노랑 토큰)와 `--sb-chart-obv-s
 | `--sb-chart-signal-oversold` | `#fbbf24` | `#b45309` | 고가 위 지름 10px 원, 입장 신호와 동시 발생 시 위로 분리 |
 | `--sb-chart-signal-outline` | `--sb-panel` | `--sb-panel` | 차트 배경색 테두리 |
 
-amount의 원본 단위는 사용자도 미확인이다. 설정에 백만원/억원 환산 금액을 명시하고 최초 선택 전에는 규모 신호를 판정하지 않는다. 이는 원본 단위 확인이나 HTS 일치 선언을 뜻하지 않는다. [조건·증거](design/chart-entry-tiers/README.md).
+사용자가 amount 단위를 억원으로 확정했다. 작은형님 150억원·큰형님 5,000억원을 설정·범례에 고정 표시하며, 단위 선택 UI는 제거한다. 실제 거래대금이 없는 날짜의 판정 보류는 유지한다. 전체 HTS 수치 일치는 별도 확인 대상이다. [조건·증거](design/chart-entry-tiers/README.md).
 
 상세 창의 `.sb-chart-window.light-mode`는 §8의 기존 라이트 배경·서피스·텍스트·경계·강조·경고·오버레이 값을 재사용한다. 별도 테마 버튼은 추가하지 않는다.
